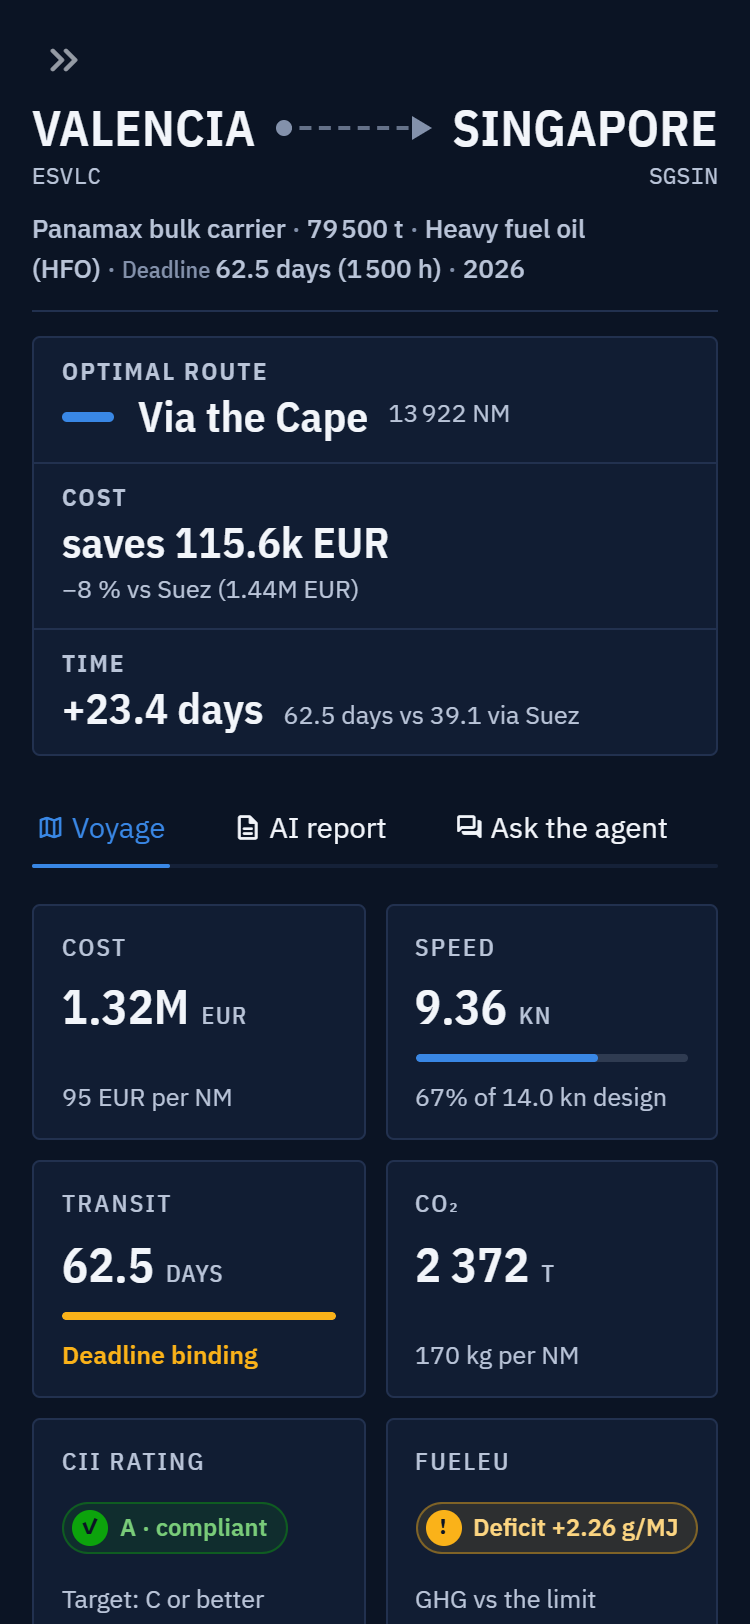
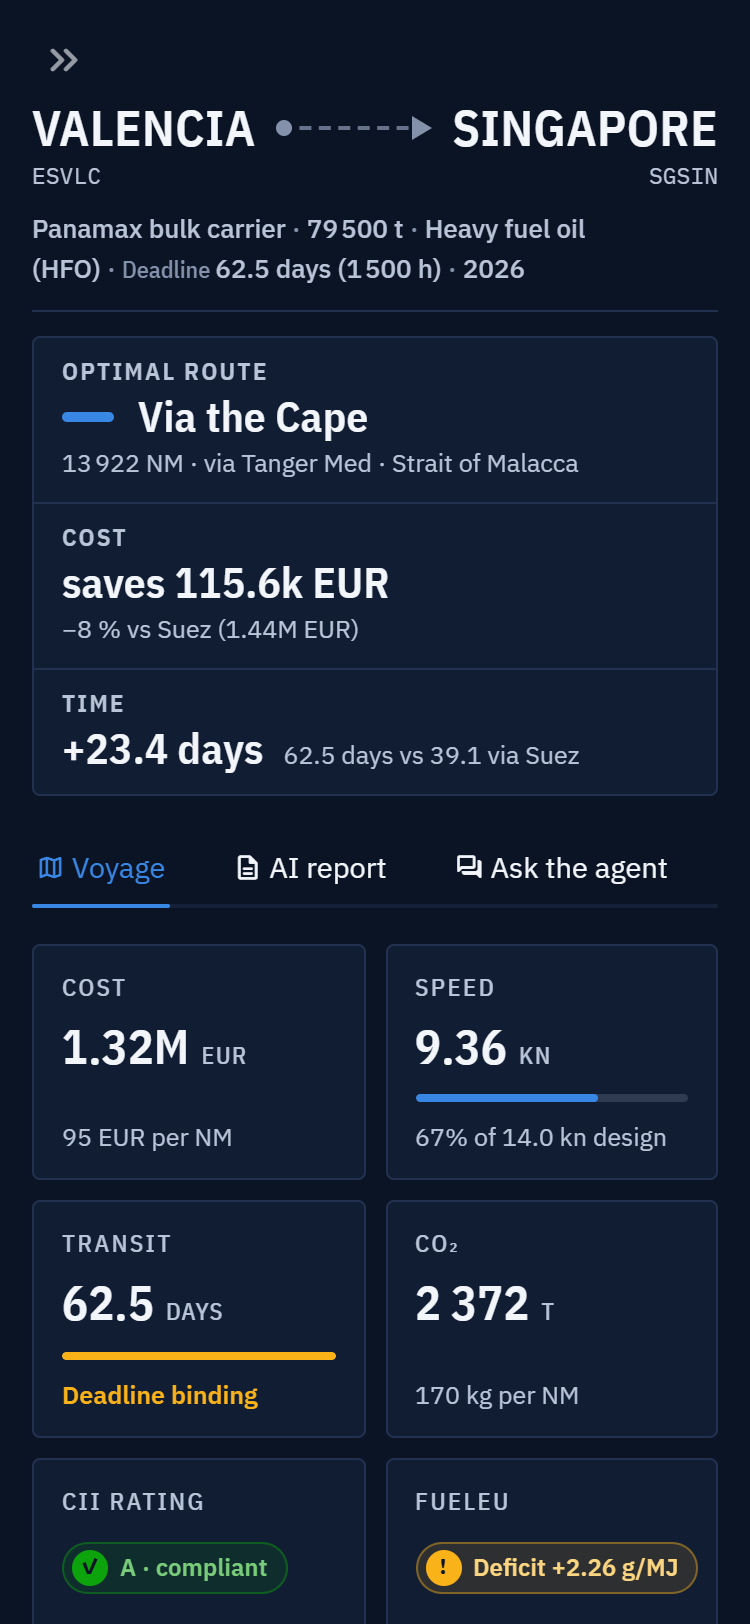
Headline says why a corridor dropped out, one-line FuelEU note, brand clear of the collapse button

diff --git a/app/style.css b/app/style.css
@@ -17,12 +17,13 @@ h1,h2,h3,h4{letter-spacing:-.01em}
   margin-bottom:-1.75rem;position:relative;z-index:2;pointer-events:none}
 [data-testid="stSidebarHeader"] *{pointer-events:auto}
 [data-testid="stSidebarUserContent"]{padding-top:0}
-.mo-brand{display:flex;gap:11px;align-items:center;margin:0 0 12px;white-space:nowrap}
-.mo-brand .mark{width:36px;height:36px;border-radius:var(--mo-r);display:grid;place-items:center;flex:none;
+/* the right 34px of the row belong to the collapse button */
+.mo-brand{display:flex;gap:9px;align-items:center;margin:0 0 12px;white-space:nowrap;padding-right:34px}
+.mo-brand .mark{width:32px;height:32px;border-radius:var(--mo-r);display:grid;place-items:center;flex:none;
   background:var(--mo-blue)}
-.mo-brand b{display:block;font:600 17px/1.15 var(--mo-cond);letter-spacing:.02em;text-transform:uppercase;
+.mo-brand b{display:block;font:600 15px/1.15 var(--mo-cond);letter-spacing:.015em;text-transform:uppercase;
   color:var(--mo-ink)}
-.mo-brand small{color:var(--mo-ink2);font-size:12px}
+.mo-brand small{color:var(--mo-ink2);font-size:11.5px}
 .mo-side{font:600 12.5px/1.2 var(--mo-cond);letter-spacing:.09em;text-transform:uppercase;color:var(--mo-ink2);
   margin:8px 0 0;padding:12px 0 5px;border-top:1px solid var(--mo-border)}
 [data-testid="stSidebar"] [data-testid="stVerticalBlock"]{gap:.7rem}
@@ -61,6 +62,13 @@ h1,h2,h3,h4{letter-spacing:-.01em}
 .mo-headline .big.name i{flex:none;width:26px;height:5px;border-radius:3px;background:var(--mo-route,var(--mo-opt))}
 .mo-headline .meta{font-size:13px;color:var(--mo-ink2);margin-top:6px}
 .mo-headline .late{color:#f0a3a3}
+.mo-headline .nm{display:none}
+.mo-headline>.why{grid-column:1/-1;border-left:0;border-top:1px solid var(--mo-border);padding:9px 22px 10px;
+  font-size:13px;color:#e8b04a}
+/* a secondary remark in one line, not a banner */
+.mo-note{margin:-4px 0 16px;padding:6px 12px;border-left:3px solid #e8b04a;font-size:13px;line-height:1.45;
+  color:var(--mo-ink2)}
+.mo-note b{color:var(--mo-ink);font-weight:600}
 
 /* instrument row: four figures and two ratings, each with a line of context; speed and transit
    carry a gauge against their limit */
@@ -185,6 +193,7 @@ h1,h2,h3,h4{letter-spacing:-.01em}
   .mo-kpis{grid-template-columns:repeat(2,minmax(0,1fr));gap:10px}
   .mo-kpi{min-height:112px;padding:12px 14px}
   .mo-track span{display:none}
+  .mo-headline .nm{display:inline}
   .mo-tl{flex-direction:column;align-items:stretch;padding-top:6px}
   .mo-tl-stop,.mo-tl-stop.first,.mo-tl-stop.last{flex:none;width:auto;flex-direction:row;align-items:center;gap:12px}
   .mo-tl-stop .lab,.mo-tl-stop.first .lab,.mo-tl-stop.last .lab{margin-top:0;text-align:left}

diff --git a/app/streamlit_app.py b/app/streamlit_app.py
@@ -272,14 +272,21 @@ def figure(text: str) -> str:
 
 
 def headline_html(title: str, best, other_name: str | None, other, color: str, tmax: float,
-                  via: str = "") -> str:
-    """The result in three cells: which route, what it costs or saves, how long it takes."""
+                  via: str = "", why: str = "") -> str:
+    """The result in three cells: which route, what it costs or saves, how long it takes.
+
+    The distance is on the header track, so the route cell says how the voyage goes instead.
+    ``why`` is a line under the cells for a result that needs explaining.
+    """
     esc = html.escape
     days = best.total_transit_hours / 24
     spare = tmax - best.total_transit_hours
+    # A phone has no room for the distance on the header track: it leads this line there instead.
+    nm = f'<span class="nm">{num(best.total_distance_nm)} NM · </span>'
     if other is None:
-        route = (f'<div class="big">{num(best.total_distance_nm)} NM</div>'
-                 f'<div class="meta">{esc(via) or "Direct"}</div>')
+        legs = via.count(" · ") + 2 if via else 1
+        route = (f'<div class="big">{f"{legs} legs" if via else "Direct"}</div>'
+                 f'<div class="meta">{nm}{esc(via) or "No port or canal on the way"}</div>')
         cost = (f'<div class="big">{eur(best.total_cost_eur)}</div>'
                 f'<div class="meta">{mean_speed(best):.1f} kn mean speed</div>')
         slack = (f'<span class="late">{num(-spare)} h over the deadline</span>' if spare < -0.5
@@ -291,7 +298,7 @@ def headline_html(title: str, best, other_name: str | None, other, color: str, t
         extra = (best.total_transit_hours - other.total_transit_hours) / 24
         vs = esc(other_name.removeprefix("Via "))
         route = (f'<div class="big name"><i></i>{esc(title)}</div>'
-                 f'<div class="meta">{num(best.total_distance_nm)} NM</div>')
+                 f'<div class="meta">{nm}{esc(via) or "Direct"}</div>')
         title = "Optimal route"
         cost = (f'<div class="big">saves {eur(saving)}</div>'
                 f'<div class="meta">−{pct:.0f} % vs {vs} ({eur(other.total_cost_eur)})</div>'
@@ -302,7 +309,8 @@ def headline_html(title: str, best, other_name: str | None, other, color: str, t
     return (f'<div class="mo-headline" style="--mo-route:{color}">'
             f'<div><div class="lead">{esc(title)}</div>{route}</div>'
             f'<div><div class="lead">Cost</div>{cost}</div>'
-            f'<div><div class="lead">Time</div>{time}</div></div>')
+            f'<div><div class="lead">Time</div>{time}</div>'
+            + (f'<div class="why">{esc(why)}</div>' if why else "") + "</div>")
 
 
 graph = get_graph()
@@ -437,6 +445,12 @@ with st.spinner("Optimizing route and speed…"):
         result = cheapest_voyage(graph, request)
         routes = {"Optimal route": result} if result else {}
 
+# Asked to compare, but only one corridor makes the deadline: say so, or the headline just switches.
+why = ""
+if corridors and len(routes) == 1:
+    lost = next(n for k, n in names.items() if k not in found).removeprefix("Via ")
+    why = (f"{lost[0].upper()}{lost[1:]} is not feasible within the {tmax / 24:g}-day deadline: "
+           f"only {next(iter(routes)).removeprefix('Via ')} makes it.")
 late = False
 if not routes:
     with st.spinner("Looking for the fastest voyage…"):
@@ -472,8 +486,8 @@ hero(f"{num(best.total_distance_nm)} NM")
 if "raised" in st.session_state:
     st.info(st.session_state.pop("raised"), icon=":material/speed:")
 via = " · ".join(graph.ports[c].name for c in best.route_ports[1:-1] if not is_waypoint_node(c))
-st.markdown(headline_html(best_name, best, other_name, other, OPT_COLOR, tmax, f"via {via}" if via else ""),
-            unsafe_allow_html=True)
+st.markdown(headline_html(best_name, best, other_name, other, OPT_COLOR, tmax,
+                          f"via {via}" if via else "", why), unsafe_allow_html=True)
 
 # A new voyage invalidates the previous AI report (the chat keeps its history).
 voyage_id = hashlib.sha256(json.dumps(
@@ -530,9 +544,10 @@ with tab_voyage:
     if in_scope and not best.fueleu_compliant:
         priced = best.total_fueleu_penalty_eur > 0
         fine = best.total_fueleu_penalty_eur if priced else voyage_fueleu_penalty_eur(best)
-        st.warning(f"FuelEU deficit: estimated penalty **{eur(fine)}** "
-                   f"({'included in' if priced else 'not in'} the voyage cost). Pooling, banking and "
-                   "borrowing are not modelled and could avoid it.", icon=":material/gavel:")
+        # One line: the FuelEU tile already says "Deficit", this only adds what it costs.
+        st.markdown(f'<div class="mo-note"><b>FuelEU deficit</b> · estimated penalty <b>{eur(fine)}</b>, '
+                    f"{'included in' if priced else 'not in'} the voyage cost. Pooling, banking and "
+                    "borrowing are not modelled and could avoid it.</div>", unsafe_allow_html=True)
 
     with st.container(border=True):
         card_title("Route" + (f" · cheapest: {best_name}" if len(routes) > 1 else ""))

diff --git a/tests/test_app.py b/tests/test_app.py
@@ -92,11 +92,12 @@ def test_forget_key_clears_it(graph, monkeypatch):
 
 def test_fueleu_deficit_note_and_out_of_scope_voyage(graph, monkeypatch):
     at = run_app()                                   # Valencia → Rotterdam on HFO: deficit
-    note = texts(at.warning)
+    note = texts(at.markdown)
     assert "estimated penalty" in note and "Pooling, banking and borrowing" in note
+    assert "estimated penalty" not in texts(at.warning)        # a one-line note, not a banner
     at = run_app(origin="AEJEA", destination="BRSSZ")  # no EU port: FuelEU does not apply
     fueleu = next(m.value for m in at.markdown if "mo-kpi" in m.value and ">FuelEU<" in m.value)
-    assert "Not applicable" in fueleu and "estimated penalty" not in texts(at.warning)
+    assert "Not applicable" in fueleu and "estimated penalty" not in texts(at.markdown)
 
 
 def test_headline_and_status_badges(graph):
@@ -174,3 +175,15 @@ def test_tight_deadline_falls_back_to_the_quicker_corridor(graph):
     at.run()
     assert not at.exception and not at.error
     assert "Optimal route" in headline(at) and "Suez Canal" in headline(at)
+
+
+def test_headline_says_why_a_corridor_dropped_out_and_keeps_the_distance_on_the_header(graph):
+    at = run_app(origin="ESVLC", destination="SGSIN")
+    at.sidebar.toggle[0].set_value(True).run()       # both corridors make the default deadline
+    assert "not feasible" not in headline(at)
+    assert headline(at).count(" NM") == 1 and 'class="nm"' in headline(at)   # shown on phones only
+    at.sidebar.number_input[0].set_value(45.0).run()  # the Cape cannot make 45 days
+    assert not at.exception
+    assert "The Cape is not feasible within the 45-day deadline" in headline(at)
+    assert "Via Suez" in headline(at)
+

diff --git a/README.md b/README.md
@@ -200,7 +200,7 @@ Run them with `maritime-opt scenario all`.
 
 ## Validation
 
-`pytest` runs 80 tests: arithmetic identities of the fuel, CII and ETS formulas; biofuel zero-rating; ISO 14083 properties; route symmetry; monotonicity in the carbon price; k-shortest paths under a deadline; analytic speed vs golden-section search; A* vs Dijkstra; the CII retry; the FuelEU penalty, annual CII and pooling; per-leg resistance and its KKT deadline solution; that no edge crosses land beyond the tolerance; geographic sanity checks on known distances; cache consistency; that every fuel has an explicit calorific value and well-to-tank factor; the dashboards and the Streamlit app, including that it only spends the key the user types in; the MCP server and the three agents against a fake Claude client (no network); and a numerical regression of the five scenarios. These are **internal consistency checks**, not a validation against measured fleet consumption.
+`pytest` runs 81 tests: arithmetic identities of the fuel, CII and ETS formulas; biofuel zero-rating; ISO 14083 properties; route symmetry; monotonicity in the carbon price; k-shortest paths under a deadline; analytic speed vs golden-section search; A* vs Dijkstra; the CII retry; the FuelEU penalty, annual CII and pooling; per-leg resistance and its KKT deadline solution; that no edge crosses land beyond the tolerance; geographic sanity checks on known distances; cache consistency; that every fuel has an explicit calorific value and well-to-tank factor; the dashboards and the Streamlit app, including that it only spends the key the user types in; the MCP server and the three agents against a fake Claude client (no network); and a numerical regression of the five scenarios. These are **internal consistency checks**, not a validation against measured fleet consumption.
 
 ## Data and disclaimer
 
